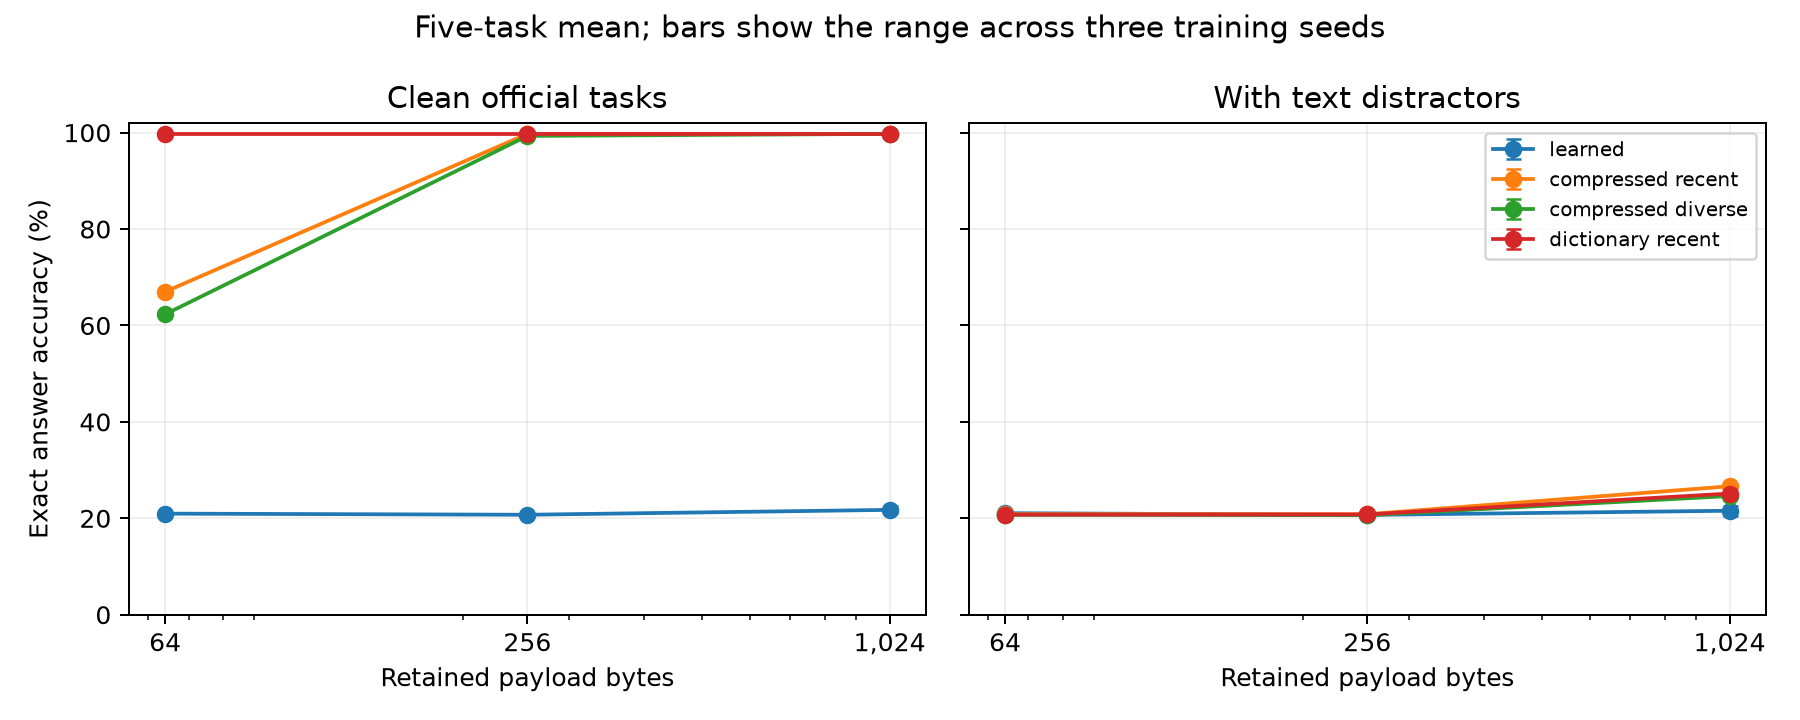
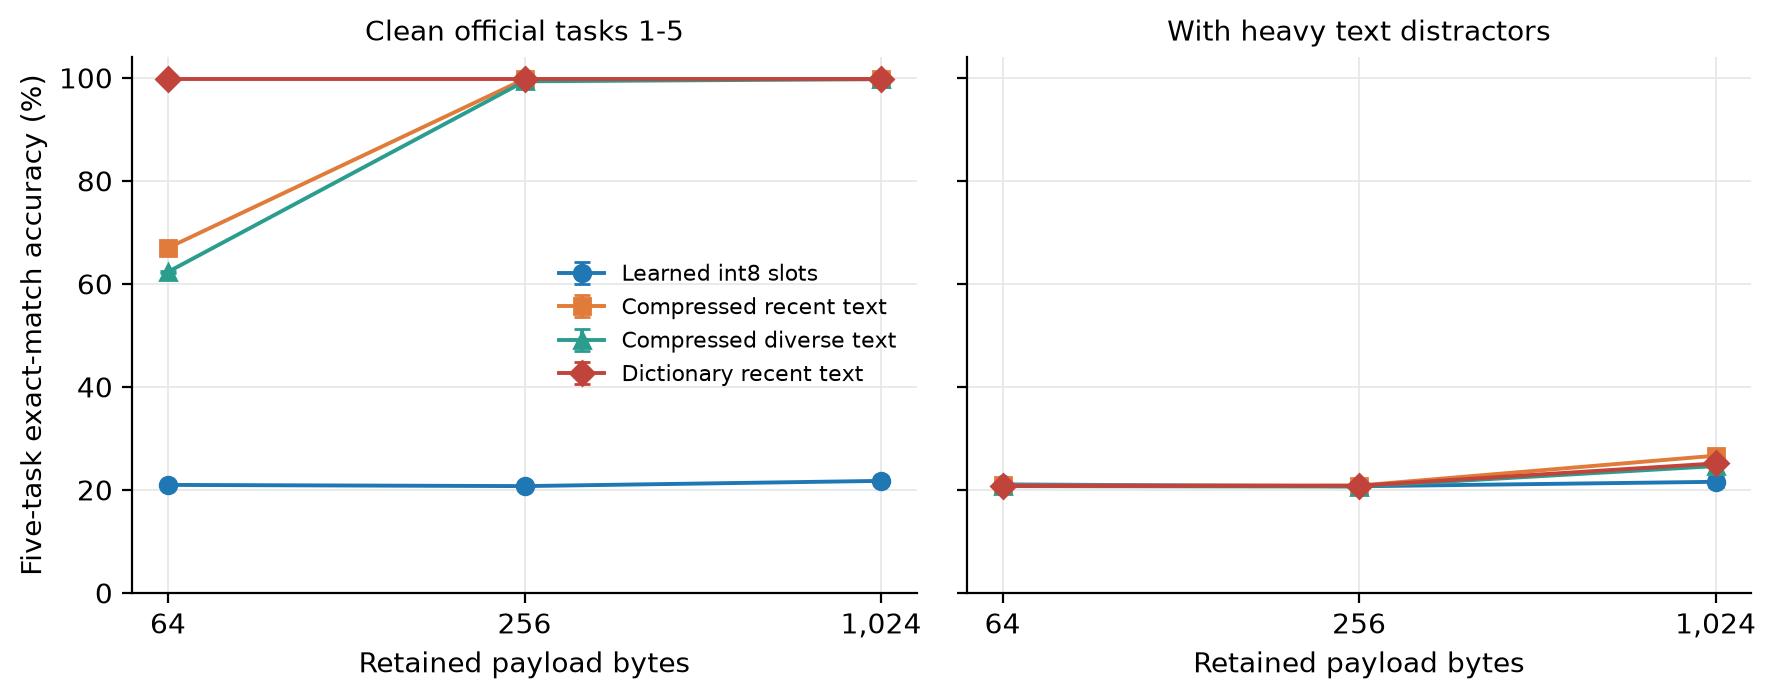
docs: add result tables and figures for the writer, QA1, and frontier studies
Extract per-seed and per-cell numbers from the sealed bundles into
results/*.csv and draw all README figures from those tables with
scripts/make_figures.py. Add figures for writer collapse under hidden
LayerNorm and for the QA1 readout across supervision regimes, redraw
the phase-one and storage-frontier figures in the same style, and point
the README layout at the reduced tree and the phase-one-archive tag.

Changed region(s): [[0.0, 0.0901, 0.991, 0.9614], [0.1858, 0.03, 0.8671, 0.0601]]

diff --git a/scripts/make_figures.py b/scripts/make_figures.py
@@ -1,0 +1,162 @@
+#!/usr/bin/env python
+"""Render the README figures from the compact result tables in results/.
+
+The CSV files are extracted from sealed study bundles; this script only draws
+them. Run from the repository root:
+
+    uv run --no-sync python scripts/make_figures.py
+"""
+from __future__ import annotations
+
+import csv
+from collections import defaultdict
+from pathlib import Path
+
+import matplotlib
+
+matplotlib.use("Agg")
+import matplotlib.pyplot as plt  # noqa: E402
+
+RESULTS = Path(__file__).resolve().parents[1] / "results"
+
+COLOR = {
+    "blue": "#1f77b4", "orange": "#e07b39", "green": "#2a9d8f",
+    "red": "#c1443c", "grey": "#8c8c8c", "dark": "#333333",
+}
+plt.rcParams.update({
+    "figure.dpi": 150, "savefig.dpi": 200, "font.size": 10,
+    "axes.spines.top": False, "axes.spines.right": False,
+    "axes.grid": True, "grid.color": "#e6e6e6", "grid.linewidth": 0.6,
+    "axes.axisbelow": True, "legend.frameon": False,
+})
+
+
+def read(name: str) -> list[dict[str, str]]:
+    with open(RESULTS / name, newline="") as handle:
+        return list(csv.DictReader(handle))
+
+
+def save(figure: plt.Figure, name: str) -> None:
+    figure.tight_layout()
+    figure.savefig(RESULTS / name, bbox_inches="tight")
+    plt.close(figure)
+    print("wrote", RESULTS / name)
+
+
+def phase_one() -> None:
+    rows = read("phase1.csv")
+    seeds = sorted({row["seed"] for row in rows})
+    arms = (("uniform", "Uniform", "o"), ("correction_weighted", "Correction weighted", "s"))
+    panels = (
+        ("Balanced refresh (all four facts rewritten)",
+         (("balanced_probe_change_pp", "Probe", COLOR["blue"]),)),
+        ("Single-fact repetition (unmentioned facts)",
+         (("unspoken_probe_change_pp", "Probe", COLOR["blue"]), ("unspoken_lm_change_pp", "LM answer", COLOR["orange"]))),
+    )
+    figure, axes = plt.subplots(1, 2, figsize=(9, 3.6), sharey=True)
+    for axis, (title, series) in zip(axes, panels, strict=True):
+        axis.axhline(0, color=COLOR["dark"], linewidth=0.8)
+        for column, label, color in series:
+            for arm, arm_label, marker in arms:
+                values = [float(next(r[column] for r in rows if r["seed"] == s and r["arm"] == arm)) for s in seeds]
+                offset = -0.08 if arm == "uniform" else 0.08
+                axis.plot([i + offset for i in range(len(seeds))], values, marker, color=color, markersize=7,
+                          markerfacecolor=color if arm == "uniform" else "white", markeredgewidth=1.4,
+                          label=f"{label}, {arm_label.lower()}")
+        axis.set_xticks(range(len(seeds)), seeds)
+        axis.set_xlabel("Writer seed")
+        axis.set_title(title, fontsize=10)
+    axes[0].set_ylabel("Change in recall (percentage points)")
+    axes[1].legend(loc="upper right", fontsize=8)
+    save(figure, "phase1.png")
+
+
+def writer_collapse() -> None:
+    rows = read("writer_collapse.csv")
+    seeds = sorted({row["writer_seed"] for row in rows})
+    figure, axes = plt.subplots(1, 2, figsize=(9, 3.6), sharey=True)
+    for axis, metric in zip(axes, ("correction", "retention"), strict=True):
+        control = [100 * float(next(r["accuracy"] for r in rows if r["writer_seed"] == s and r["arm"] == "control" and r["metric"] == metric)) for s in seeds]
+        normalized = [100 * float(next(r["accuracy"] for r in rows if r["writer_seed"] == s and r["arm"] == "normalized" and r["metric"] == metric)) for s in seeds]
+        for x, (a, b) in enumerate(zip(control, normalized, strict=True)):
+            axis.plot([x, x], [a, b], color=COLOR["grey"], linewidth=1, zorder=1)
+        axis.scatter(range(len(seeds)), control, color=COLOR["red"], s=32, zorder=2, label="Training-only state supervision")
+        axis.scatter(range(len(seeds)), normalized, color=COLOR["green"], s=32, zorder=3, label="+ LayerNorm over 64 hidden coordinates")
+        axis.axhline(50, color=COLOR["dark"], linewidth=0.8, linestyle="--")
+        axis.text(-0.45, 51.5, "chance", fontsize=8, ha="left", color=COLOR["dark"])
+        axis.set_xticks(range(len(seeds)), [s[-2:] for s in seeds], fontsize=8)
+        axis.set_xlabel("Writer seed (41xx)")
+        axis.set_title(f"{metric.capitalize()} accuracy", fontsize=10)
+        axis.set_ylim(40, 102)
+    axes[0].set_ylabel("Accuracy (%), three frozen readers pooled")
+    axes[0].legend(loc="lower left", fontsize=8)
+    save(figure, "writer_collapse.png")
+
+
+def qa1_readout() -> None:
+    rows = read("qa1_readout.csv")
+    groups = (
+        ("state_supervised", "State supervised\n(official test)", COLOR["green"]),
+        ("fixed_supervised_keys", "Frozen learned keys,\nanswer-trained values", COLOR["blue"]),
+        ("fixed_answer_only_keys", "Frozen answer-only keys,\nanswer-trained values", COLOR["orange"]),
+        ("answer_only", "Answer only\n(development)", COLOR["red"]),
+    )
+    figure, axis = plt.subplots(figsize=(9, 3.8))
+    oracle = [100 * float(r["oracle_accuracy"]) for r in rows]
+    zero = [100 * float(r["zero_memory_accuracy"]) for r in rows]
+    axis.axhspan(min(oracle), max(oracle), color=COLOR["green"], alpha=0.15, linewidth=0)
+    axis.text(3.45, (min(oracle) + max(oracle)) / 2, "exact oracle state", fontsize=8, va="center", ha="right")
+    axis.axhspan(min(zero), max(zero), color=COLOR["grey"], alpha=0.25, linewidth=0)
+    axis.text(3.45, min(zero) - 4.5, "zero-memory control", fontsize=8, va="center", ha="right")
+    for x, (key, label, color) in enumerate(groups):
+        values = [100 * float(r["learned_accuracy"]) for r in rows if r["condition"] == key]
+        jitter = [x + (i - (len(values) - 1) / 2) * 0.035 for i in range(len(values))]
+        axis.scatter(jitter, values, color=color, s=30, zorder=3, edgecolor="white", linewidth=0.5)
+        mean = sum(values) / len(values)
+        axis.hlines(mean, x - 0.22, x + 0.22, color=COLOR["dark"], linewidth=1.6, zorder=4)
+        axis.text(x + 0.25, mean, f"{mean:.1f}", fontsize=8, va="center")
+    axis.set_xticks(range(len(groups)), [g[1] for g in groups], fontsize=8.5)
+    axis.set_xlim(-0.5, 3.5)
+    axis.set_ylim(0, 104)
+    axis.set_ylabel("bAbI QA1 exact-match accuracy (%)")
+    axis.set_title("258-byte delta state, frozen Qwen3-1.7B reader; one point per writer-reader cell, bar is the mean", fontsize=9)
+    save(figure, "qa1_readout.png")
+
+
+def storage_frontier() -> None:
+    rows = read("storage_frontier.csv")
+    methods = (
+        ("learned", "Learned int8 slots", COLOR["blue"], "o"),
+        ("compressed_recent", "Compressed recent text", COLOR["orange"], "s"),
+        ("compressed_diverse", "Compressed diverse text", COLOR["green"], "^"),
+        ("dictionary_recent", "Dictionary recent text", COLOR["red"], "D"),
+    )
+    budgets = sorted({int(r["budget_bytes"]) for r in rows})
+    figure, axes = plt.subplots(1, 2, figsize=(9, 3.6), sharey=True)
+    for axis, level, title in zip(axes, ("0", "2"), ("Clean official tasks 1-5", "With heavy text distractors"), strict=True):
+        for key, label, color, marker in methods:
+            by_budget = defaultdict(list)
+            for r in rows:
+                if r["method"] == key and r["noise_level"] == level:
+                    by_budget[int(r["budget_bytes"])].append(100 * float(r["five_task_accuracy"]))
+            mean = [sum(by_budget[b]) / len(by_budget[b]) for b in budgets]
+            low = [mean[i] - min(by_budget[b]) for i, b in enumerate(budgets)]
+            high = [max(by_budget[b]) - mean[i] for i, b in enumerate(budgets)]
+            axis.errorbar(budgets, mean, yerr=[low, high], color=color, marker=marker, markersize=6,
+                          linewidth=1.4, capsize=3, label=label)
+        axis.set_xscale("log", base=2)
+        axis.set_xticks(budgets, [f"{b:,}" for b in budgets])
+        axis.minorticks_off()
+        axis.set_xlabel("Retained payload bytes")
+        axis.set_title(title, fontsize=10)
+        axis.set_ylim(0, 104)
+    axes[0].set_ylabel("Five-task exact-match accuracy (%)")
+    axes[0].legend(loc="center right", fontsize=8)
+    save(figure, "storage_frontier.png")
+
+
+if __name__ == "__main__":
+    phase_one()
+    writer_collapse()
+    qa1_readout()
+    storage_frontier()

diff --git a/README.md b/README.md
@@ -66,7 +66,7 @@ Stages refuse to run if any hashed input, source file, or runtime differs from t
 
 | Study | Question | Runner | Cluster wrapper |
 |---|---|---|---|
-| Phase one | Can a gated writer preserve unmentioned facts through truthful repetition? | [independent fact lineage](src/tinymem/research/independent_fact_recurrent_training.py) | archived |
+| Phase one | Can a gated writer preserve unmentioned facts through truthful repetition? | `independent_fact_recurrent_training.py` at tag `phase-one-archive` | archived |
 | Delta comparison | Do residual updates with learned addresses retain better than gating? | [run_delta_fact_study.py](scripts/run_delta_fact_study.py) | [della_delta_fact.slurm](scripts/della_delta_fact.slurm) |
 | Correct-state readout | Can the read interface use a correct query-independent state? | [run_oracle_fact_study.py](scripts/run_oracle_fact_study.py) | [della_oracle_fact.slurm](scripts/della_oracle_fact.slurm) |
 | Learned writer | Can a writer learn correct states, and why does it collapse? | [run_distilled_fact_study.py](scripts/run_distilled_fact_study.py) | [CPU](scripts/della_distilled_fact_cpu.slurm), [GPU](scripts/della_distilled_fact_gpu.slurm) |
@@ -91,10 +91,30 @@ Changes are measured from each model's own prefix endpoint, in percentage points
 | 2029 | Uniform | +7.81 | -5.47 | -16.93 | -9.77 |
 | 2029 | Correction weighted | +0.78 | -2.73 | -15.36 | -13.93 |
 
-![Three-seed confirmation results](results/phase1.png)
+![Phase one: change in recall after eight truthful writes, by writer seed and arm](results/phase1.png)
 
+Balanced refresh moves recall by a few points in either direction; repeating one fact costs 10 to 34 points on the facts that were not mentioned.
 The [results CSV](results/phase1.csv) has exact counts and denominators.
 The arms share a reader, data order, and evaluation panel, so they are not six independent replications.
+
+### Learned writer and QA1 readout
+
+The distilled study trains the 258-byte delta writer to reproduce parser-written states and then reads the states it produces with three frozen readers.
+
+![Writer collapse: correction and retention per writer seed, with and without hidden LayerNorm](results/writer_collapse.png)
+
+Five of twelve control seeds sit at chance on both metrics; their write strength or hidden activations collapsed to zero.
+Affine-free LayerNorm over the 64 hidden coordinates lifts every collapsed seed above 90% and helps most of the others; one seed loses 2.5 points of retention.
+Memory, parameter count, and byte budget are unchanged.
+Per-seed values are in [writer_collapse.csv](results/writer_collapse.csv).
+
+![QA1 readout: state-supervised, frozen-key, and answer-only writers against oracle and zero-memory bands](results/qa1_readout.png)
+
+The same writer architecture spans the whole range depending on what supervises it.
+State supervision reaches the oracle band on the official test.
+Answer-only training sits between 14% and 44% on development questions.
+Freezing the key branch from a state-supervised writer and training only the value branch from answers reaches 92% or better in six of twelve pairs and stays below 30% in the other six; freezing an answer-only key branch instead does not help.
+Per-cell values are in [qa1_readout.csv](results/qa1_readout.csv).
 
 ### Storage frontier
 
@@ -104,7 +124,7 @@ Each record is encoded by the unadapted frozen Qwen base and written by token cr
 Explicit baselines are compressed recent text, compressed text selected for lexical diversity, and a training-only dictionary log (152,830 shared dictionary bytes, reported separately), each capped at the same budgets.
 Evaluation scored all 5,000 official test questions in clean and heavy-distractor variants from the fixed final checkpoint, with zero-memory and other-story controls, then transferred to all 500 installed BABILong 1k examples as raw text.
 
-![Accuracy by retained bytes](results/storage_frontier.png)
+![Storage frontier: five-task accuracy by retained bytes, clean and with distractors](results/storage_frontier.png)
 
 | Method | 64 B | 256 B | 1,024 B |
 |---|---:|---:|---:|
@@ -114,6 +134,7 @@ Evaluation scored all 5,000 official test questions in clean and heavy-distracto
 | Dictionary recent text | 99.7 (99.6-99.8) | 99.7 (99.7-99.8) | 99.7 (99.7-99.8) |
 
 Five-task mean exact-match accuracy in percent on clean official test questions; parentheses give the range across three seeds.
+Per-seed values are in [storage_frontier.csv](results/storage_frontier.csv).
 Zero-memory controls averaged 17.2% and other-story controls 16.6% for the learned cells.
 Full text scored 99.6% to 99.8%, and the hand-written two-byte QA1 state scored 100%.
 Learned-cell training cross-entropy plateaued at 0.65 against 0.18 for the text readers.
@@ -141,19 +162,28 @@ uv run --no-sync python -m pytest
 Tests use small tensors, synthetic inputs, and tiny randomly initialized readers.
 They check contracts and execution paths; they do not measure full-size model accuracy.
 
+The figures in `results/` are drawn from the CSV tables next to them, which were extracted from the sealed study bundles:
+
+```bash
+uv run --no-sync python scripts/make_figures.py
+```
+
 ## Repository layout
 
 | Path | Contents |
 |---|---|
-| `src/tinymem/memory/` | Stored-state contracts, writers, and readout bridges |
-| `src/tinymem/research/` | Reader integration, training objectives, controlled data, probes, and study protocols |
-| `src/tinymem/evaluation/` | Paired comparisons, bootstrap intervals, and report calculations |
-| `scripts/` | Study runners and Slurm wrappers |
+| `src/tinymem/memory/` | Stored-state contract and the three writers |
+| `src/tinymem/research/` | Reader integration, training objectives, controlled data, probes, study protocols, and report calculations |
+| `src/tinymem/evaluation/` | Fixed reader prompt and exact-match answer scoring |
+| `src/tinymem/data/` | bAbI and WikiText loaders and the reader case contract |
+| `scripts/` | Study runners, `download_data.py`, `make_figures.py`, and Slurm wrappers |
 | `tests/` | Behavioral and end-to-end tests |
-| `results/` | Compact phase-one results and the storage frontier figure |
+| `results/` | Compact result tables (CSV) and the figures drawn from them |
 | `data/manifest.json` | Dataset source and checksum declarations |
 
-The repository retains the earlier from-scratch decoder and memory experiments that phase one was built on.
+The checkout holds only the code that the studies above execute.
+The from-scratch decoder, the explicit token-retention baselines, the readout-bridge studies, and the phase-one independent-fact lineage were removed after phase one closed; they remain in Git history at tag `phase-one-archive`.
+Each sealed study bundle also carries its own copy of the source tree at the time it ran, so sealed results verify against that copy and not against this checkout.
 Datasets, pretrained weights, checkpoints, and full run outputs are excluded from Git.
 
 ## Reproduction scope
